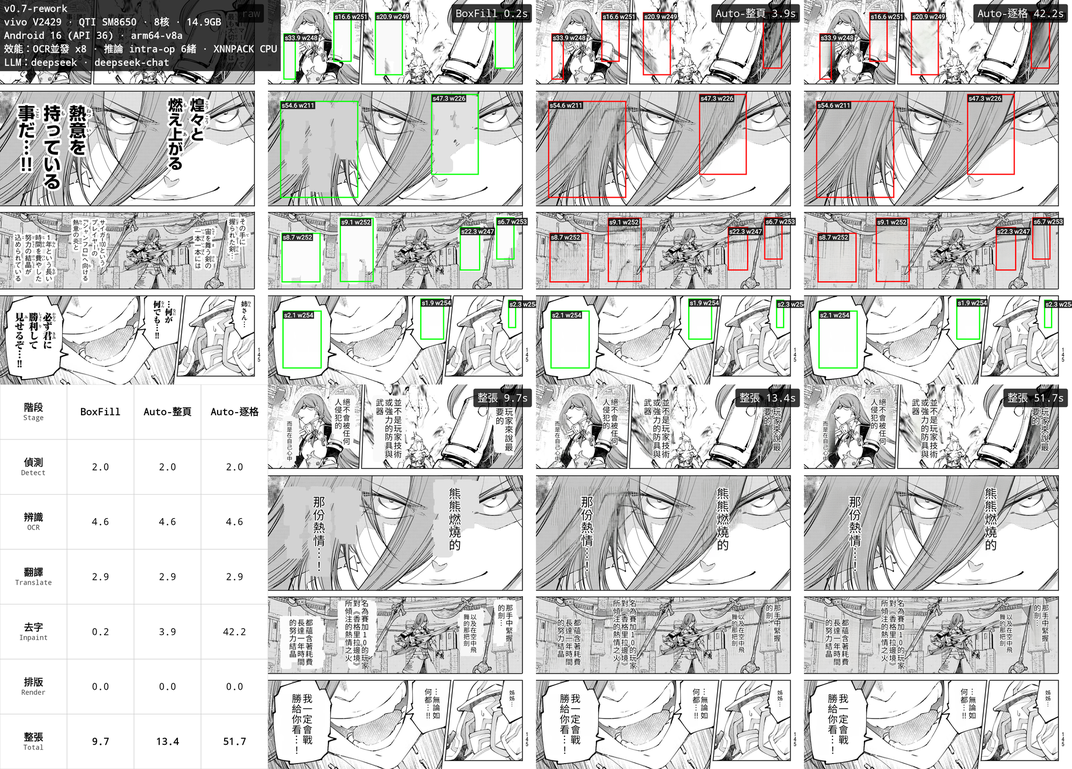
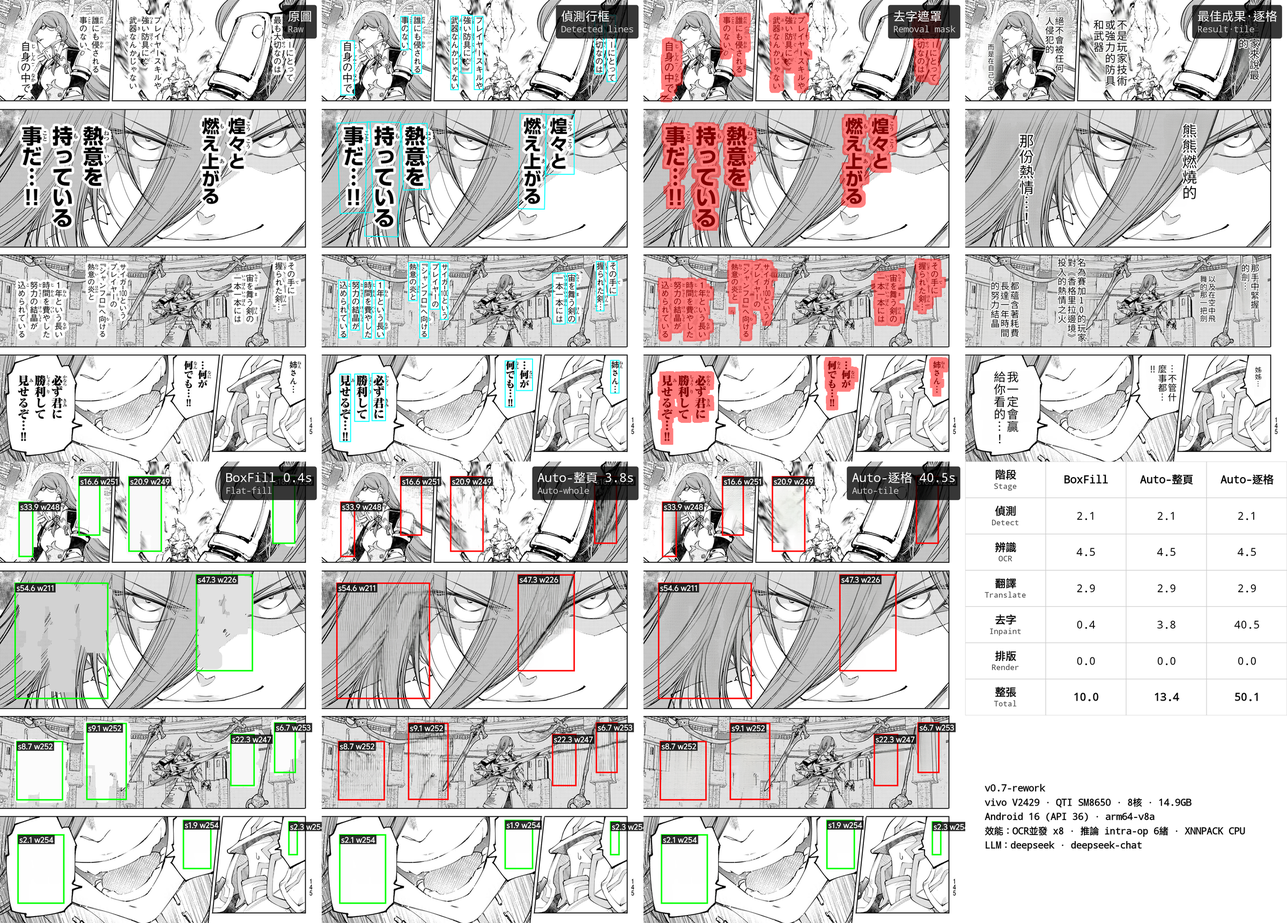
docs: multi-provider + model docs; CI compile check
New docs/PROVIDERS.md and docs/MODELS.md; README/PARAMETERS/ARCHITECTURE/engine-README updated for the provider presets + auto model-list + auto model-download (zh mirrors throughout). GitHub Actions builds :engine + :app-sandbox on push. Refreshed showcase image.

diff --git a/engine/src/main/kotlin/li/joye/yakuyomi/engine/Config.kt b/engine/src/main/kotlin/li/joye/yakuyomi/engine/Config.kt
@@ -63,6 +63,8 @@ data class TranslatorConfig(
     val targetLang: String = "CHT",                                     // 〔設定〕config.target_lang
     val model: String = "deepseek-chat",                                // 〔設定〕
     val apiBase: String = "https://api.deepseek.com/chat/completions",  // 〔設定〕custom_openai 用
+    // ⚠ toLangName / fromLangName 預設被 fork :domain 的 TranslationPreferences.DEFAULT_TARGET_LANG /
+    //   DEFAULT_SOURCE_LANG 鏡像（:domain 不能 import 引擎）。改這兩個請同步改那邊，否則 few-shot 判斷會 drift。
     val toLangName: String = "Traditional Chinese (Taiwan, 台灣慣用的繁體中文用語)",  // 〔設定〕目標語言
     val fromLangName: String = "Japanese",          // 〔設定〕來源語言標註（空白＝讓 LLM 自己判）
     val sampleSource: String = DEFAULT_SAMPLE_SOURCE, // 〔設定〕few-shot 原文（空白＝不放範例）

diff --git a/docs/PROVIDERS.md b/docs/PROVIDERS.md
@@ -1,0 +1,64 @@
+# LLM providers and model lists
+
+English ｜ [中文](PROVIDERS_zh.md)
+
+Translation is the one pipeline stage that leaves the device. It calls a cloud LLM with the line-numbered prompt and protocol ported from manga-image-translator. The engine ships a list of provider presets and can fetch each provider's live model list, so you bring your own key and pick a current model without editing code.
+
+## One chat path for every provider
+
+Every supported provider speaks the OpenAI chat-completions shape (`POST {base}` with `{ model, messages, temperature }` and `Authorization: Bearer <key>`). `LlmTranslator` is the only request builder; switching providers changes nothing but `apiBase`, `model`, and the key. Google Gemini is included by pointing chat at its OpenAI-compatible endpoint, so it needs no separate code either — only its model *listing* uses the native endpoint, because the compat path has no `/models`.
+
+This is deliberate. The providers Yakuyomi targets are exactly manga-image-translator's LLM translators — OpenAI, DeepSeek, Gemini, Groq, custom_openai, Sakura, Qwen — all OpenAI-compatible. The non-LLM machine-translation services m-i-t also supports (DeepL, Caiyun, Youdao, Baidu, Papago) have no chat/prompt protocol and are out of scope.
+
+## Provider presets
+
+`LlmProviders.ALL` (engine) holds the presets. Each is `{ id, displayName, chatUrl, modelsUrl, modelSource, defaultModel, baseEditable }`.
+
+| Preset | Host | Model list | Notes |
+|---|---|---|---|
+| DeepSeek (default) | api.deepseek.com | `/v1/models` | cheap, strong Chinese |
+| OpenAI | api.openai.com | `/v1/models` | |
+| Google Gemini | …/v1beta/openai/ | `/v1beta/models` (native) | chat via OpenAI-compat endpoint; list via native |
+| Groq | api.groq.com | `/v1/models` | fast, free tier |
+| Qwen (通義千問) | dashscope…/compatible-mode | `/v1/models` | Alibaba |
+| OpenRouter | openrouter.ai | `/v1/models` (public) | one key, hundreds of models, list auto-updates |
+| Sakura (self-hosted) | your base | your base + `/v1/models` | JP→ZH-specialised LLM |
+| Custom (OpenAI-compatible) | your base | your base + `/v1/models` | LM Studio, SiliconFlow, any compatible endpoint |
+
+Two presets are `baseEditable` (Sakura, Custom): the user supplies the base URL and the engine derives the chat and model-list URLs from it (`LlmProviders.chatUrlOf` / `modelsUrlOf`).
+
+## Fetching the model list
+
+Models iterate fast, so the engine fetches each provider's current list instead of hardcoding it — an idea borrowed from [nextai-translator](https://github.com/nextai-translator/nextai-translator). `LlmModels.list(modelsUrl, source, apiKey)` returns `List<ModelInfo>`; the reader's settings call it behind a "fetch models" button and show the result as a picker.
+
+Two endpoint shapes, by `ModelSource`:
+
+- **`OPENAI`** — `GET {modelsUrl}` with `Authorization: Bearer`, parse `data[].id`. Covers every OpenAI-compatible provider.
+- **`GEMINI`** — `GET {modelsUrl}?key=`, parse `models[]`, keep those whose `supportedGenerationMethods` include `generateContent`, strip the `models/` prefix.
+
+Anything else — no key, an endpoint without a listing API, a network error — returns an empty list. The fetch never throws and never blocks configuration; an empty result just means "type the model id by hand". The auto-list is a convenience, not a prerequisite.
+
+## Bring your own key (per provider)
+
+Keys are stored per provider, so switching from DeepSeek to OpenRouter and back keeps each one. The reader stores them encrypted (Android Keystore) and passes only the active provider's key to the engine as a constructor argument; the engine itself holds no keys.
+
+## Adding a provider
+
+Because every provider is OpenAI-compatible, adding one is usually a single entry in `LlmProviders.ALL`:
+
+```kotlin
+LlmProvider(
+    id = "myprovider",
+    displayName = "My Provider",
+    chatUrl = "https://api.example.com/v1/chat/completions",
+    modelsUrl = "https://api.example.com/v1/models",
+    modelSource = ModelSource.OPENAI,
+    defaultModel = "some-model",
+)
+```
+
+No request-builder change is needed. A provider that isn't OpenAI-compatible — a different chat shape, like Anthropic's Messages API — would need a new builder in the engine; none of the in-scope providers do.
+
+## Why these, and why auto-list
+
+The provider set is the intersection of what manga-image-translator targets and what's useful for Japanese→Chinese manga, plus OpenRouter as an aggregator. The auto-list mirrors nextai-translator's `listModels` but leans on it harder: nextai hardcodes static model lists for several providers (Claude, Kimi, Zhipu, MiniMax), whereas Yakuyomi fetches `/v1/models` for all of them and falls back to manual entry — so there is no static list to maintain as models change.

diff --git a/docs/PROVIDERS_zh.md b/docs/PROVIDERS_zh.md
@@ -1,0 +1,64 @@
+# LLM 供應商與模型清單
+
+[English](PROVIDERS.md) ｜ 中文
+
+翻譯是整條 pipeline 唯一會離開裝置的階段：用移植自 manga-image-translator 的「行號 prompt + 協定」呼叫雲端 LLM。引擎內建一份供應商預設表，並能撈取各家的即時模型清單——你自備金鑰（BYOK）、選一個當下的模型，全程不必改 code。
+
+## 所有供應商共用一條聊天路徑
+
+每個支援的供應商都講 OpenAI chat-completions 形狀（`POST {base}`，body `{ model, messages, temperature }`，`Authorization: Bearer <key>`）。`LlmTranslator` 是唯一的請求 builder；換供應商只動 `apiBase`、`model`、金鑰，其餘不變。Google Gemini 也納入了——聊天指向它的 OpenAI 相容端點即可，不必另寫 code；只有「列模型」走它的 native 端點，因為 compat 路徑沒有 `/models`。
+
+這是刻意的。Yakuyomi 鎖定的供應商，正是 manga-image-translator 的 LLM translator——OpenAI、DeepSeek、Gemini、Groq、custom_openai、Sakura、Qwen——全部 OpenAI 相容。m-i-t 也支援的非 LLM 機器翻譯（DeepL、彩雲、有道、百度、Papago）沒有 chat/prompt 協定，不在範圍內。
+
+## 供應商預設表
+
+`LlmProviders.ALL`（引擎）放這些預設，每筆是 `{ id, displayName, chatUrl, modelsUrl, modelSource, defaultModel, baseEditable }`。
+
+| 預設 | 主機 | 模型清單 | 備註 |
+|---|---|---|---|
+| DeepSeek（預設） | api.deepseek.com | `/v1/models` | 便宜、中文強 |
+| OpenAI | api.openai.com | `/v1/models` | |
+| Google Gemini | …/v1beta/openai/ | `/v1beta/models`（native） | 聊天走 OpenAI-compat 端點；列模型走 native |
+| Groq | api.groq.com | `/v1/models` | 快、有免費額度 |
+| 通義千問 Qwen | dashscope…/compatible-mode | `/v1/models` | 阿里 |
+| OpenRouter | openrouter.ai | `/v1/models`（公開） | 一把 key 通吃上百模型、清單自動更新 |
+| Sakura（自架） | 你的 base | 你的 base + `/v1/models` | 日→中專精 LLM |
+| 自訂（OpenAI 相容） | 你的 base | 你的 base + `/v1/models` | LM Studio、SiliconFlow、任何相容端點 |
+
+其中兩個是 `baseEditable`（Sakura、自訂）：使用者填 base URL，引擎據此推導聊天與列模型的 URL（`LlmProviders.chatUrlOf` / `modelsUrlOf`）。
+
+## 撈取模型清單
+
+模型迭代很快，所以引擎是「撈各家當下清單」而非寫死——這個點子借鏡 [nextai-translator](https://github.com/nextai-translator/nextai-translator)。`LlmModels.list(modelsUrl, source, apiKey)` 回傳 `List<ModelInfo>`；reader 設定頁在「抓取模型」鈕後面呼叫它、把結果做成挑選清單。
+
+依 `ModelSource` 分兩種端點形狀：
+
+- **`OPENAI`** —— `GET {modelsUrl}` 帶 `Authorization: Bearer`，解析 `data[].id`。涵蓋所有 OpenAI 相容供應商。
+- **`GEMINI`** —— `GET {modelsUrl}?key=`，解析 `models[]`，留下 `supportedGenerationMethods` 含 `generateContent` 的、去掉 `models/` 前綴。
+
+其餘情況——沒 key、端點不支援列模型、網路錯——一律回空清單。撈取從不拋例外、也不擋設定；回空只代表「請手動輸入 model id」。自動清單是加分，不是前置條件。
+
+## 自備金鑰（每家一格）
+
+金鑰按供應商分開存，所以 DeepSeek↔OpenRouter 來回切換，各家的 key 都保留。reader 用 Android Keystore 加密儲存，只把「目前供應商」的 key 當建構參數傳給引擎；引擎本身不持有任何金鑰。
+
+## 新增一個供應商
+
+因為每家都 OpenAI 相容，新增通常就是在 `LlmProviders.ALL` 加一筆：
+
+```kotlin
+LlmProvider(
+    id = "myprovider",
+    displayName = "My Provider",
+    chatUrl = "https://api.example.com/v1/chat/completions",
+    modelsUrl = "https://api.example.com/v1/models",
+    modelSource = ModelSource.OPENAI,
+    defaultModel = "some-model",
+)
+```
+
+不必動請求 builder。若某供應商不是 OpenAI 相容（聊天形狀不同，例如 Anthropic 的 Messages API），才需要在引擎加新 builder——目前範圍內的供應商都不需要。
+
+## 為何選這些、為何自動撈清單
+
+供應商集合 = 「manga-image-translator 鎖定的」∩「對日→中漫畫有用的」，再加 OpenRouter 當聚合器。自動清單鏡射 nextai-translator 的 `listModels`，但用得更徹底：nextai 對好幾家（Claude、Kimi、智譜、MiniMax）寫死靜態清單，而 Yakuyomi 對全部都撈 `/v1/models`、撈不到就退回手填——所以沒有任何「會隨模型變動而要維護的靜態清單」。

diff --git a/README.md b/README.md
@@ -6,7 +6,7 @@ English ｜ [中文](README_zh.md)
 
 Status: the engine runs end to end on a real device (milestones M0–M3). Reader integration (M4) is in progress.
 
-This repo is the **engine** (`yakuyomi-engine`). The reader app is a separate [mihon](https://github.com/mihonapp/mihon) fork that pulls the engine in as a submodule; see [Repository layout](#repository-layout).
+This repo is the **engine** (`yakuyomi-engine`). The reader app — **Yakuyomi** — is a [mihon](https://github.com/mihonapp/mihon) fork that pulls the engine in as a submodule; see [Repository layout](#repository-layout).
 
 ## What it is
 
@@ -27,7 +27,7 @@ The engine exposes one call, `translatePage(page): PageResult` (translated / ski
 
 ![Performance comparison](docs/img/showcase.png)
 
-From the sandbox app: one page run through the three text-removal modes. The top row is after removal, the bottom row is the finished translation, and the table on the left breaks down the time each stage takes per mode. The banner records the device, the active settings, and the LLM.
+From the sandbox app: one page taken through the pipeline — detection, confidence threshold, text removal, and the finished typeset — compared across the three text-removal modes (BoxFill, Auto-whole, Auto-tile). The table breaks down each stage's time per mode; the banner records the device, the active settings, and the LLM.
 
 ## Goals
 
@@ -39,7 +39,7 @@ From the sandbox app: one page run through the three text-removal modes. The top
 
 - **Detection** — comic-text-detector. Returns text-line quads and a per-pixel stroke mask used to limit text removal to the glyphs.
 - **OCR** — a 48px CTC model, one forward per line, decoded greedily. Runs on CPU (XNNPACK miscomputes this model). Lines are recognized concurrently, which on an 8-core phone cuts OCR roughly in half.
-- **Translation** — a cloud LLM with the line-numbered protocol from manga-image-translator. DeepSeek by default; any OpenAI-compatible provider works. Per-page requests run concurrently under a semaphore to avoid rate limits. A failed line falls back to its source text rather than breaking the page.
+- **Translation** — a cloud LLM with the line-numbered protocol from manga-image-translator. Any OpenAI-compatible provider works; presets cover manga-image-translator's set (OpenAI, DeepSeek, Gemini, Groq, Qwen, Sakura, custom) plus OpenRouter, each with its model list fetched live. DeepSeek by default. Per-page requests run concurrently under a semaphore to avoid rate limits. A failed line falls back to its source text rather than breaking the page. See [docs/PROVIDERS.md](docs/PROVIDERS.md).
 - **Text removal** — three modes, trading speed for quality. Speech bubbles are always flat-filled (clean, no halo); the modes differ only in how text drawn over artwork is handled:
 
   | Mode | Artwork handling | Speed |
@@ -64,7 +64,7 @@ The engine stays reader-agnostic so it can be tested on its own; the app is a re
 
 ## Models
 
-Weights are not committed and not packed into the APK. The app loads them from a folder you choose.
+Weights are not committed and not packed into the APK. The reader can auto-download them, or you supply them manually from a folder you choose — see [docs/MODELS.md](docs/MODELS.md) for sources, checksums, and licensing.
 
 | Stage | Model | Source |
 |---|---|---|
@@ -81,7 +81,7 @@ The engine builds as a standard Android Gradle library. The sandbox app (`:app-s
 ./gradlew :app-sandbox:assembleDebug
 ```
 
-Install it, point it at a folder containing the three `.onnx` models, pick test images, and run a diagnostic or a text-removal comparison. The reader app lives in the separate fork repo.
+Install it, point it at a folder containing the three `.onnx` models, pick test images, and run a diagnostic or a text-removal comparison. The reader app, Yakuyomi, lives in the separate fork repo.
 
 ## Configuration
 

diff --git a/README_zh.md b/README_zh.md
@@ -6,7 +6,7 @@
 
 狀態：引擎已在真機上端到端跑通（里程碑 M0–M3）。接進 reader（M4）進行中。
 
-本 repo 是**引擎**（`yakuyomi-engine`）。reader app 是另一個 [mihon](https://github.com/mihonapp/mihon) fork，用 submodule 引入這個引擎，見[儲存庫結構](#儲存庫結構)。
+本 repo 是**引擎**（`yakuyomi-engine`）。reader app 就是 **Yakuyomi**——一個 [mihon](https://github.com/mihonapp/mihon) fork，用 submodule 引入這個引擎，見[儲存庫結構](#儲存庫結構)。
 
 ## 這是什麼
 
@@ -27,7 +27,7 @@ Yakuyomi 翻譯漫畫頁。五個階段裡四個在裝置上跑（ONNX Runtime +
 
 ![效能比較](docs/img/showcase.png)
 
-來自 sandbox app：同一頁跑過三種去字模式。上排是去字後、下排是貼完譯文的成品，左邊的表把每個模式各階段的用時拆開列出。橫幅記了裝置、生效的設定、跟 LLM。
+來自 sandbox app：同一頁走過整條 pipeline——偵測、信賴門檻、去字、貼完譯文的成品——並比較三種去字模式（BoxFill、Auto-整頁、Auto-逐格）。表把每個模式各階段的用時拆開列出；橫幅記了裝置、生效的設定、跟 LLM。
 
 ## 目標
 
@@ -39,7 +39,7 @@ Yakuyomi 翻譯漫畫頁。五個階段裡四個在裝置上跑（ONNX Runtime +
 
 - **偵測** — comic-text-detector。回傳文字行四邊形，加一張逐像素筆畫遮罩，用來把去字限制在筆畫上。
 - **OCR** — 48px CTC 模型，每行一次前向、貪婪解碼。跑在 CPU 上（XNNPACK 會算錯這個模型）。文字行並發辨識，8 核手機上 OCR 大約砍半。
-- **翻譯** — 雲端 LLM，沿用 manga-image-translator 的行號協定。預設 DeepSeek，任何 OpenAI 相容的服務商都行。每頁請求在 semaphore 下並發以避開限流。某行翻譯失敗時退回原文，不會弄壞整頁。
+- **翻譯** — 雲端 LLM，沿用 manga-image-translator 的行號協定。任何 OpenAI 相容服務商都行；預設選單涵蓋 manga-image-translator 那組（OpenAI、DeepSeek、Gemini、Groq、Qwen、Sakura、自訂）外加 OpenRouter，各家的模型清單即時撈取。預設 DeepSeek。每頁請求在 semaphore 下並發以避開限流。某行翻譯失敗時退回原文，不會弄壞整頁。詳見 [docs/PROVIDERS.md](docs/PROVIDERS_zh.md)。
 - **去字** — 三個模式，拿速度換品質。對話框一律平塗（乾淨、無黃暈），模式之間只差在壓在畫面上的字怎麼處理：
 
   | 模式 | 畫面上的字 | 速度 |
@@ -64,7 +64,7 @@ Yakuyomi 翻譯漫畫頁。五個階段裡四個在裝置上跑（ONNX Runtime +
 
 ## 模型
 
-權重不 commit、也不打包進 APK，由 app 從你選的資料夾載入。
+權重不 commit、也不打包進 APK。reader 可自動下載，或你手動放進指定的資料夾——出處、雜湊、授權見 [docs/MODELS_zh.md](docs/MODELS_zh.md)。
 
 | 階段 | 模型 | 來源 |
 |---|---|---|
@@ -81,7 +81,7 @@ Yakuyomi 翻譯漫畫頁。五個階段裡四個在裝置上跑（ONNX Runtime +
 ./gradlew :app-sandbox:assembleDebug
 ```
 
-裝起來，指向放三個 `.onnx` 模型的資料夾，選測試圖，跑診斷或去字比較。reader app 在另一個 fork repo。
+裝起來，指向放三個 `.onnx` 模型的資料夾，選測試圖，跑診斷或去字比較。reader app（Yakuyomi）在另一個 fork repo。
 
 ## 設定
 

diff --git a/docs/ARCHITECTURE.md b/docs/ARCHITECTURE.md
@@ -34,7 +34,7 @@ Each stage in one line:
 - **Detector** — comic-text-detector. Letterbox preprocess, ONNX, then boxes (NMS + unclip) and a `seg` stroke mask. Text removal uses the mask so it erases strokes, not solid rectangles.
 - **Ocr** — 48px CTC. Crops each line (perspective-corrected, vertical lines rotated), recognizes it, greedy-decodes against the alphabet, drops lines below `minProb`. Lines run concurrently (see below).
 - **Grouping** — turns lines into bubble-sized regions in two stages: a permissive connect pass, then an MST split that breaks apart neighbours connected only transitively. The split is what stops dense bubbles from merging into one block. It also computes each region's reading order and skew angle.
-- **Translator** — m-i-t's `chatgpt.py` prompt and protocol over an OpenAI-compatible call, one request per page, no cross-page context. A region whose translation fails keeps its source text. The language pair is configurable: target via `toLangName`, source via the OCR model plus a prompt label. Default is Japanese to Traditional Chinese, not hardcoded.
+- **Translator** — m-i-t's `chatgpt.py` prompt and protocol over an OpenAI-compatible call, one request per page, no cross-page context. A region whose translation fails keeps its source text. The language pair is configurable: target via `toLangName`, source via the OCR model plus a prompt label. Default is Japanese to Traditional Chinese, not hardcoded. Providers are presets, all OpenAI-compatible (Gemini via its compat endpoint), with each provider's model list fetched live — see [PROVIDERS.md](PROVIDERS.md).
 - **TextFilter** — m-i-t's post-translation filter. A region is "usable" when its translation isn't blank, isn't bare digits, doesn't match the filter regex, and isn't identical to the source.
 - **Inpainter** — three modes: `boxfill` (flat-fill the masked area with the local background colour) and `auto` with `wholeImage` either on (one whole-image LaMa pass) or off (per-region LaMa). Auto flat-fills clean bubbles and sends only on-art text to LaMa. Default is auto with `wholeImage` on.
 - **Renderer** — text-box typesetting, no bubble flood-fill: font auto-sizing, kinsoku line breaks, vertical or horizontal, text colour from the cleaned background luminance, and canvas rotation along the region's skew angle.
@@ -76,6 +76,7 @@ engine/        Android library, the on-device pipeline (the product)
     Yakuyomi.kt, TranslationEngine.kt, ModelSet.kt   public entry (facade + types)
     Pipeline.kt, Detector.kt, Ocr.kt, Grouping.kt,
     LlmTranslator.kt, Inpainter.kt, Renderer.kt      stages
+    LlmProviders.kt, LlmModels.kt                    provider presets + live model-list fetch
     Geometry.kt, ImageOps.kt, TextFilter.kt          internal helpers
   src/test/kotlin/…                                  JVM unit tests
 app-sandbox/   throwaway test app (device timing, comparison images)

diff --git a/docs/PARAMETERS.md b/docs/PARAMETERS.md
@@ -16,7 +16,7 @@ Numeric settings are typed in and clamped to the range shown here (out-of-range 
 Switch, default off. Translates each chapter as it finishes downloading. Detection, OCR, and text removal run on the device; translation calls the LLM, so it needs a network connection while it runs.
 
 ### API key
-Your LLM key (bring your own key). OpenAI-compatible; DeepSeek by default. Stored in the Android Keystore, never bundled.
+Your LLM key (bring your own key), kept per provider so switching providers doesn't lose a key. Stored encrypted in the Android Keystore, never bundled.
 
 ### Target language
 The language the LLM translates into. Default is Taiwan-style Traditional Chinese. The default carries a Japanese-to-Chinese few-shot example; choosing another target drops the example so it doesn't pull the output toward Chinese.
@@ -25,7 +25,7 @@ The language the LLM translates into. Default is Taiwan-style Traditional Chines
 A hint passed to the prompt. The actual source is decided by the OCR model, so this is just a label. Leave it on auto-detect unless the OCR output is being mislabelled.
 
 ### Provider / model / API base
-The engine supports any OpenAI-compatible provider, plus Gemini, with the provider, model, and API base all configurable. The reader currently wires only the key and languages, so it runs DeepSeek; provider/model/base are engine parameters waiting for a settings entry.
+The provider is a preset picker: manga-image-translator's LLM set (OpenAI, DeepSeek, Gemini, Groq, Qwen, Sakura, custom) plus OpenRouter, all OpenAI-compatible. DeepSeek by default. The model can be typed, or fetched live from the provider with **fetch models**; leave it blank to use the provider's default. API base appears only for the self-hosted/custom presets (Sakura, Custom); the others use their built-in endpoint. See [PROVIDERS.md](PROVIDERS.md) for the full list and how the model fetch works.
 
 ---
 

diff --git a/docs/PARAMETERS_zh.md b/docs/PARAMETERS_zh.md
@@ -16,7 +16,7 @@ reader app 把這些放在翻譯設定頁，按階段分組。常用的預設顯
 開關，預設關。章節下載完就翻。偵測、OCR、去字在裝置上跑；翻譯呼叫 LLM，所以跑的當下要連網。
 
 ### API key
-你的 LLM 金鑰（自備金鑰）。OpenAI 相容，預設 DeepSeek。存在 Android Keystore，不內建。
+你的 LLM 金鑰（自備金鑰），每個服務商各存一格，切換服務商不會弄丟。加密存在 Android Keystore，不內建。
 
 ### 目標語言
 LLM 翻成的語言。預設台灣繁體中文。預設帶一組日翻中的 few-shot 範例；換成別的目標語言時範例會拿掉，免得把輸出帶往中文。
@@ -25,7 +25,7 @@ LLM 翻成的語言。預設台灣繁體中文。預設帶一組日翻中的 few
 丟進 prompt 的提示。實際來源由 OCR 模型決定，所以這只是個標籤。留自動偵測即可，除非 OCR 輸出被標錯語言。
 
 ### 服務商／模型／API base
-引擎支援任何 OpenAI 相容的服務商，外加 Gemini，服務商、模型、API base 都可設。reader 目前只接了金鑰跟語言，所以跑 DeepSeek；服務商／模型／base 是引擎參數，還沒做成設定項。
+服務商是預設選單：manga-image-translator 的 LLM 那組（OpenAI、DeepSeek、Gemini、Groq、Qwen、Sakura、自訂）外加 OpenRouter，全部 OpenAI 相容。預設 DeepSeek。模型可手填，或按 **抓取模型** 從服務商撈即時清單；留空＝用該服務商的預設模型。API base 只在自架／自訂（Sakura、自訂）才出現，其餘用內建端點。完整清單與撈取機制見 [PROVIDERS.md](PROVIDERS_zh.md)。
 
 ---
 

diff --git a/engine/README.md b/engine/README.md
@@ -70,7 +70,7 @@ The full list, with ranges and the effect of each, is in [`docs/PARAMETERS.md`](
 - `OcrConfig.concurrent = true`, `concurrency = 8`. OCR recognizes lines in parallel; on an 8-core phone this roughly halves OCR time, with no change to output.
 - `InpainterConfig.method = "auto"`, `wholeImage = true`. Flat-fills clean bubbles and runs one whole-image LaMa pass for text over artwork. `"boxfill"` flat-fills everything (fastest, on-art text becomes a colour block); `"auto"` with `wholeImage = false` runs per-region LaMa (slowest, sharpest).
 - `RenderConfig.orientation = AUTO`. Follows each region's detected direction, then rotates along the region's skew angle.
-- `TranslatorConfig.provider = "deepseek"`. Any OpenAI-compatible endpoint (set `apiBase` and `model`).
+- `TranslatorConfig.provider = "deepseek"`, with `apiBase` and `model`. Any OpenAI-compatible endpoint. `LlmProviders.ALL` carries presets for manga-image-translator's LLM set plus OpenRouter (all OpenAI-compatible; Gemini via its compat endpoint), and `LlmModels.list()` fetches a provider's live model list. See [`docs/PROVIDERS.md`](../docs/PROVIDERS.md).
 
 ### Language pair (not fixed to JP→CHT)
 

diff --git a/engine/README_zh.md b/engine/README_zh.md
@@ -70,7 +70,7 @@ Yakuyomi.create(models, alphabet, apiKey, config)
 - `OcrConfig.concurrent = true`、`concurrency = 8`。OCR 把文字行並發辨識；8 核手機上 OCR 時間大約砍半，輸出不變。
 - `InpainterConfig.method = "auto"`、`wholeImage = true`。把乾淨泡泡平塗、對壓在畫面上的字跑一次整頁 LaMa。`"boxfill"` 全平塗（最快，畫面上的字變色塊）；`"auto"` 配 `wholeImage = false` 跑逐區 LaMa（最慢、最銳）。
 - `RenderConfig.orientation = AUTO`。跟著每區塊偵測到的方向，再沿區塊傾斜角旋轉。
-- `TranslatorConfig.provider = "deepseek"`。任何 OpenAI 相容端點（設 `apiBase` 跟 `model`）。
+- `TranslatorConfig.provider = "deepseek"`，配 `apiBase` 跟 `model`。任何 OpenAI 相容端點。`LlmProviders.ALL` 內建 manga-image-translator 的 LLM 那組外加 OpenRouter 的預設（全 OpenAI 相容；Gemini 走它的 compat 端點），`LlmModels.list()` 撈服務商的即時模型清單。詳見 [`docs/PROVIDERS_zh.md`](../docs/PROVIDERS_zh.md)。
 
 ### 語言對（不寫死日翻繁中）
 
